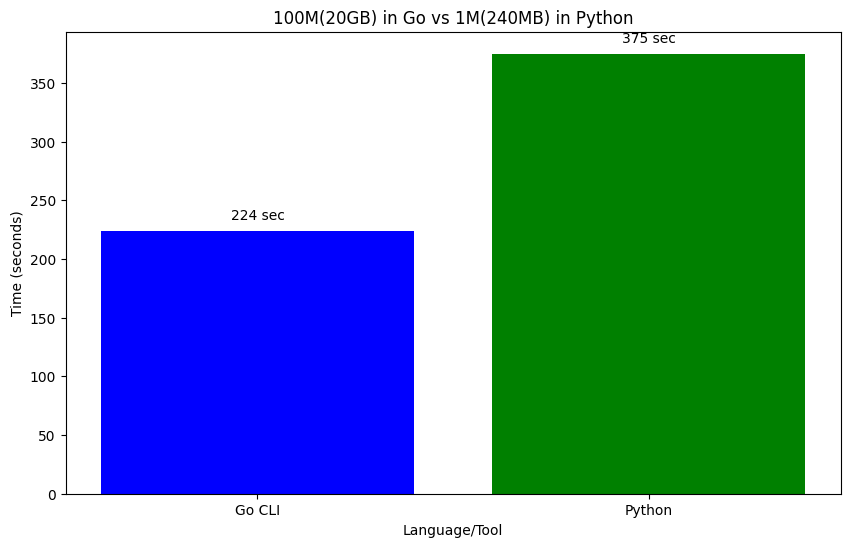
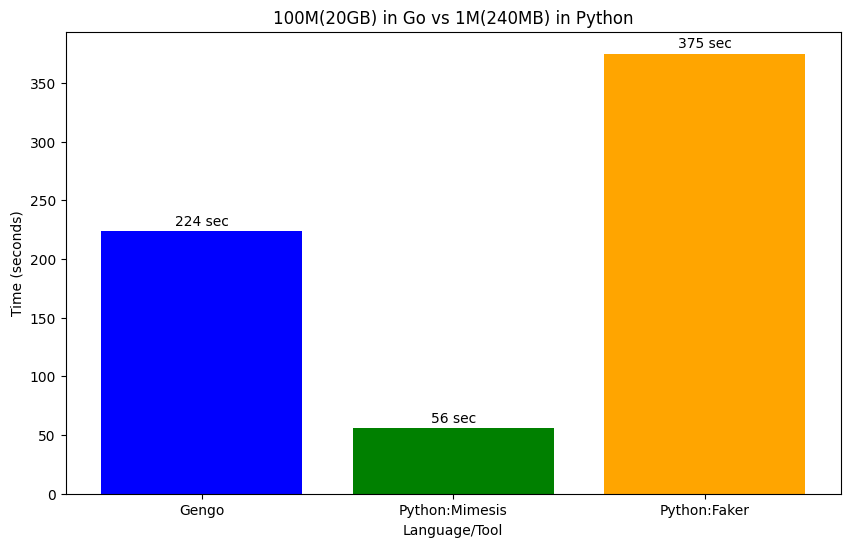
I discovered Mimesis(look into Farsante) and took some benchmarks

diff --git a/README.md b/README.md
@@ -4,6 +4,8 @@ Gengo is a command-line interface (CLI) tool designed to generate large fake dat
 It enables users to simulate massive amounts of data for testing, development, or educational purposes. 
 With Gengo, you can effortlessly create datasets containing hundreds of millions of rows in just a matter of minutes.
 
+The idea behind this is that doing the same thing using Python was incredibly slow. 
+
 ## Installation
 
 To install Gengo, follow these steps:
